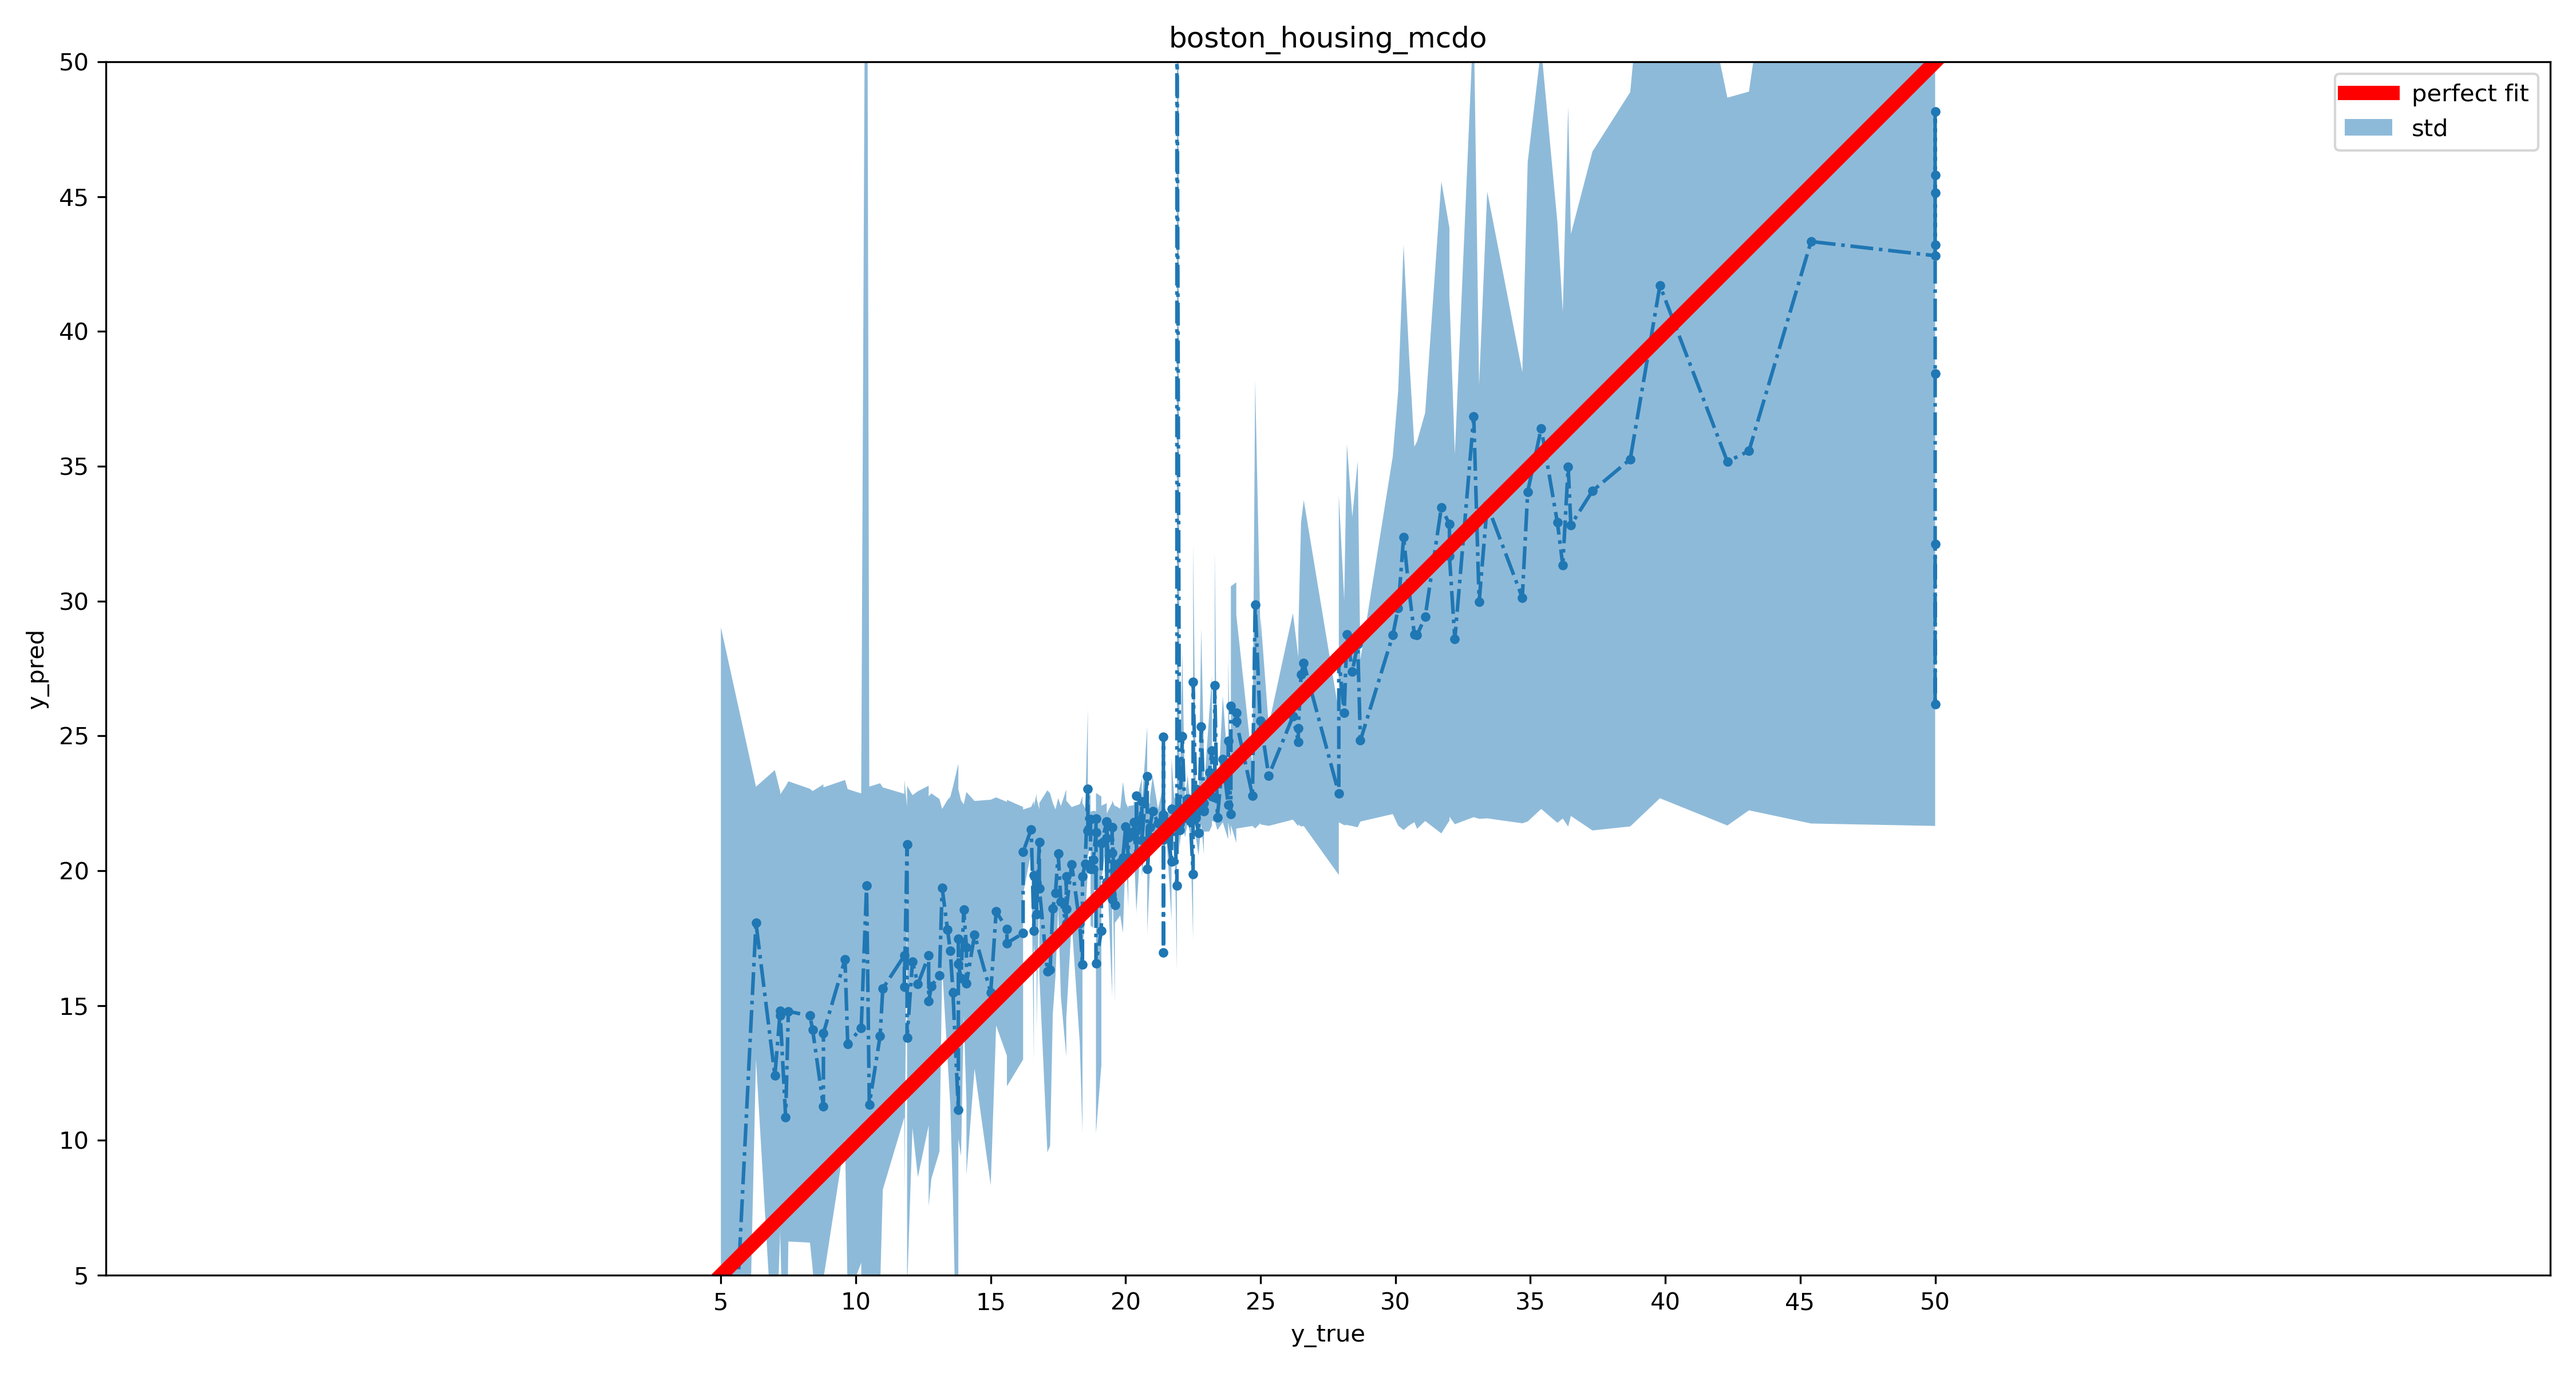
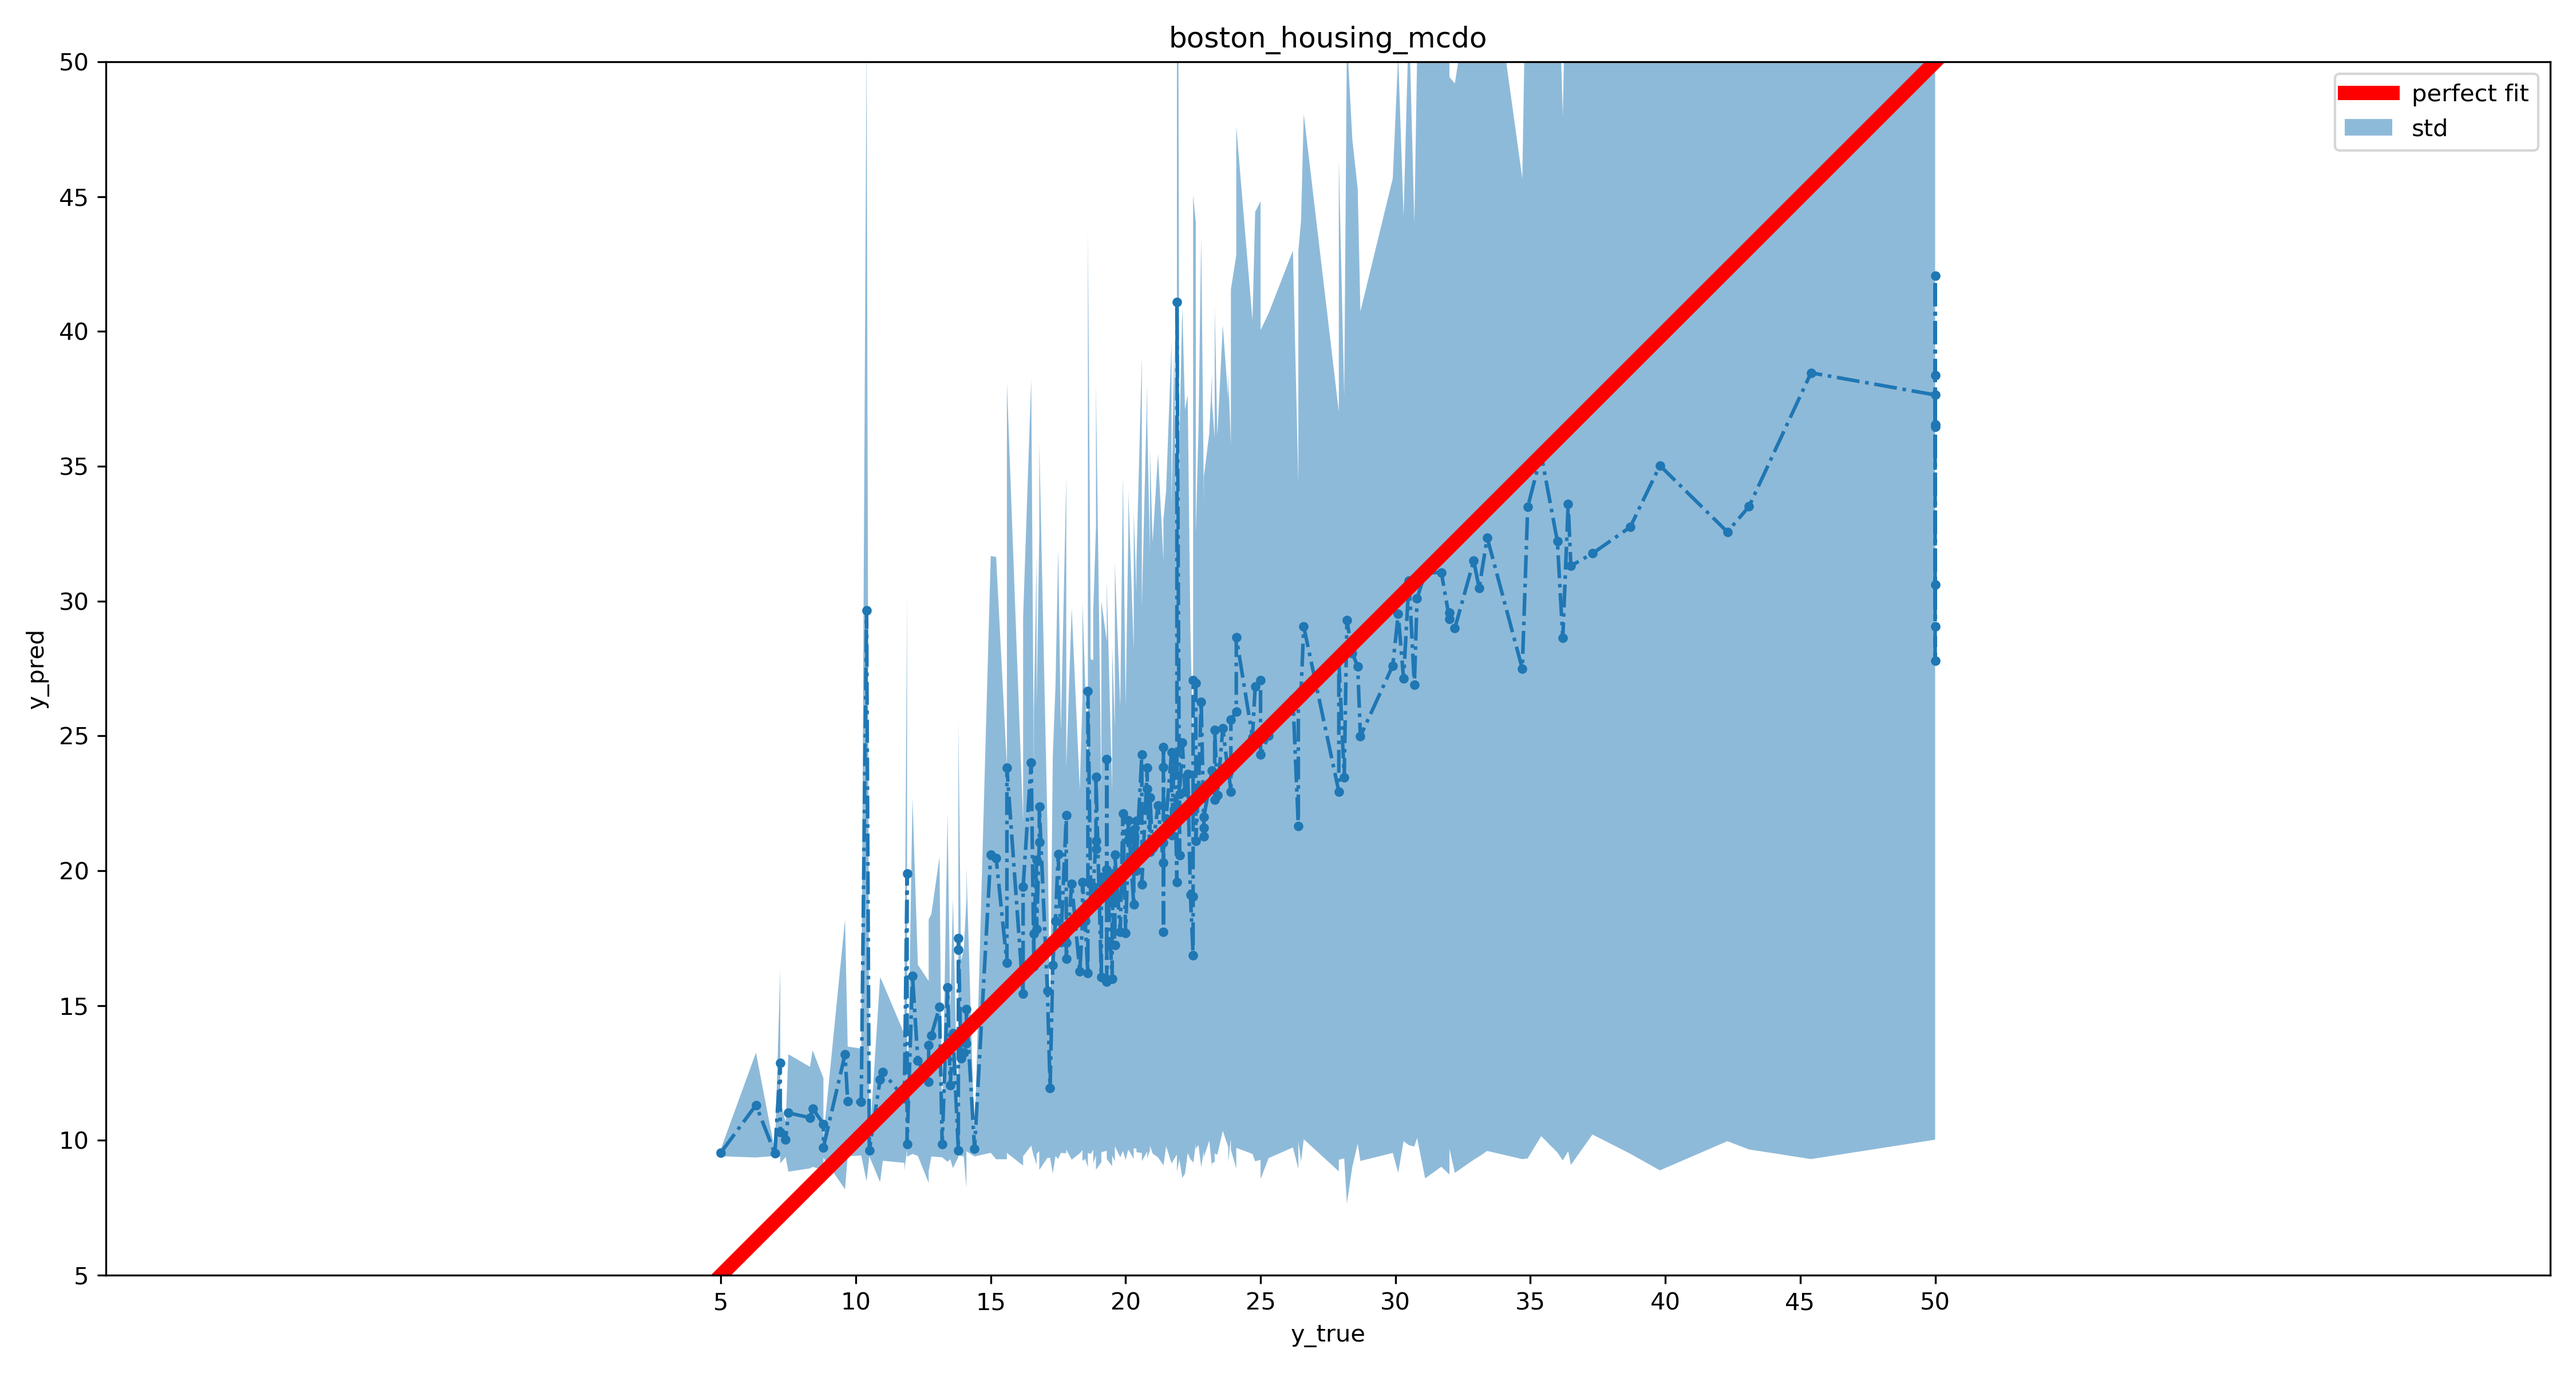
pics

Changed region(s): [[0.28, 0.0312, 0.7778, 0.9375]]

diff --git a/src/.ipynb_checkpoints/training-checkpoint.py b/src/.ipynb_checkpoints/training-checkpoint.py
@@ -48,14 +48,24 @@ def train_model_mfg(args, dataset, model):
     last_bias_mu = nn.Parameter(torch.randn((1, args.num_classes), device=device, dtype=torchType))
     last_bias_logvar = nn.Parameter(torch.randn((1, args.num_classes), device=device, dtype=torchType))
     
+    
+    ## Best parameters
+    best_last_weight_mu = nn.Parameter(torch.randn((args['last_features'], args.num_classes), device=device, dtype=torchType))
+    best_last_weight_logvar = nn.Parameter(torch.randn((args['last_features'], args.num_classes), device=device, dtype=torchType))
+    best_last_bias_mu = nn.Parameter(torch.randn((1, args.num_classes), device=device, dtype=torchType))
+    best_last_bias_logvar = nn.Parameter(torch.randn((1, args.num_classes), device=device, dtype=torchType))
+    best_model = type(model)(args).to(args.device) # get a new instance
+    
     params = list(model.parameters()) + [last_weight_mu, last_weight_logvar] + [last_bias_mu, last_bias_logvar]
-    optimizer = torch.optim.Adam(params)
+    optimizer = torch.optim.Adam(params, lr=1e-3)
     scheduler = torch.optim.lr_scheduler.MultiStepLR(optimizer, np.linspace(start=10, stop=num_epoches, num=50), gamma=0.9)
     
     
     std_normal = torch.distributions.Normal(loc=torch.tensor(0., device=device, dtype=torchType),
                                        scale=torch.tensor(1., device=device, dtype=torchType),)
-    
+    best_mse = float('inf')
+    best_KL = float('inf')
+    current_tol = 0
     for ep in tqdm(range(num_epoches)):
         for x_train, y_train_labels in dataset.next_train_batch():
             emb = model(x_train)
@@ -102,9 +112,24 @@ def train_model_mfg(args, dataset, model):
             else:
                 print(f"Mean validation MSE at epoch number {ep} is {np.array(score_total).mean()}")
             print(f'Current KL is {KL.cpu().detach().numpy()}')
+
+            if (np.array(score_total).mean() < best_mse):
+                best_mse = np.array(score_total).mean()
+                current_tol = 0
+                
+                best_model.load_state_dict(model.state_dict())
+                best_last_weight_mu = last_weight_mu.clone()
+                best_last_weight_logvar = last_weight_logvar.clone()
+                best_last_bias_mu = last_bias_mu.clone()
+                best_last_bias_logvar = last_bias_logvar.clone()
+                best_KL = KL.cpu().detach().numpy()
+            else:
+                current_tol += 1
+                if (print_info * current_tol > args['early_stopping_tol']):
+                    break
     
     
-    return model, [last_weight_mu, last_weight_logvar, last_bias_mu, last_bias_logvar], [np.array(score_total).mean(), KL.cpu().detach().numpy()]
+    return best_model, [best_last_weight_mu, best_last_weight_logvar, best_last_bias_mu, best_last_bias_logvar], [best_mse, best_KL]
     
     
 def train_model_mcdo(args, dataset, model):
@@ -119,11 +144,17 @@ def train_model_mcdo(args, dataset, model):
     last_bias_mu = nn.Parameter(torch.randn((1, args.num_classes), device=device, dtype=torchType))
     dropout = Dropout_layer()
     
+    ## Best parameters
+    best_last_weight_mu = nn.Parameter(torch.randn((args['last_features'], args.num_classes), device=device, dtype=torchType))
+    best_last_bias_mu = nn.Parameter(torch.randn((1, args.num_classes), device=device, dtype=torchType))
+    best_model = type(model)(args).to(args.device) # get a new instance
+    
     params = list(model.parameters()) + [last_weight_mu, last_bias_mu]
-    optimizer = torch.optim.Adam(params)
+    optimizer = torch.optim.Adam(params, lr=1e-3)
     scheduler = torch.optim.lr_scheduler.MultiStepLR(optimizer, np.linspace(start=10, stop=num_epoches, num=50), gamma=0.9)
     
-    
+    best_mse = float('inf')
+    current_tol = 0
     for ep in tqdm(range(num_epoches)):
         dropout.train()
         for x_train, y_train_labels in dataset.next_train_batch():
@@ -169,7 +200,17 @@ def train_model_mcdo(args, dataset, model):
                 print(f"Mean validation accuracy at epoch number {ep} is {np.array(score_total).mean()}")
             else:
                 print(f"Mean validation MSE at epoch number {ep} is {np.array(score_total).mean()}")
+            if (np.array(score_total).mean() < best_mse):
+                best_mse = np.array(score_total).mean()
+                current_tol = 0
+                best_model.load_state_dict(model.state_dict())
+                best_last_weight_mu = last_weight_mu.clone()
+                best_last_bias_mu = last_bias_mu.clone()
+            else:
+                current_tol += 1
+                if (print_info * current_tol > args['early_stopping_tol']):
+                    break
     
-    return model, [last_weight_mu, last_bias_mu], [np.array(score_total).mean()]
+    return best_model, [best_last_weight_mu, best_last_bias_mu], [best_mse]
     
     

diff --git a/src/training.py b/src/training.py
@@ -48,14 +48,24 @@ def train_model_mfg(args, dataset, model):
     last_bias_mu = nn.Parameter(torch.randn((1, args.num_classes), device=device, dtype=torchType))
     last_bias_logvar = nn.Parameter(torch.randn((1, args.num_classes), device=device, dtype=torchType))
     
+    
+    ## Best parameters
+    best_last_weight_mu = nn.Parameter(torch.randn((args['last_features'], args.num_classes), device=device, dtype=torchType))
+    best_last_weight_logvar = nn.Parameter(torch.randn((args['last_features'], args.num_classes), device=device, dtype=torchType))
+    best_last_bias_mu = nn.Parameter(torch.randn((1, args.num_classes), device=device, dtype=torchType))
+    best_last_bias_logvar = nn.Parameter(torch.randn((1, args.num_classes), device=device, dtype=torchType))
+    best_model = type(model)(args).to(args.device) # get a new instance
+    
     params = list(model.parameters()) + [last_weight_mu, last_weight_logvar] + [last_bias_mu, last_bias_logvar]
-    optimizer = torch.optim.Adam(params)
+    optimizer = torch.optim.Adam(params, lr=1e-3)
     scheduler = torch.optim.lr_scheduler.MultiStepLR(optimizer, np.linspace(start=10, stop=num_epoches, num=50), gamma=0.9)
     
     
     std_normal = torch.distributions.Normal(loc=torch.tensor(0., device=device, dtype=torchType),
                                        scale=torch.tensor(1., device=device, dtype=torchType),)
-    
+    best_mse = float('inf')
+    best_KL = float('inf')
+    current_tol = 0
     for ep in tqdm(range(num_epoches)):
         for x_train, y_train_labels in dataset.next_train_batch():
             emb = model(x_train)
@@ -102,9 +112,24 @@ def train_model_mfg(args, dataset, model):
             else:
                 print(f"Mean validation MSE at epoch number {ep} is {np.array(score_total).mean()}")
             print(f'Current KL is {KL.cpu().detach().numpy()}')
+
+            if (np.array(score_total).mean() < best_mse):
+                best_mse = np.array(score_total).mean()
+                current_tol = 0
+                
+                best_model.load_state_dict(model.state_dict())
+                best_last_weight_mu = last_weight_mu.clone()
+                best_last_weight_logvar = last_weight_logvar.clone()
+                best_last_bias_mu = last_bias_mu.clone()
+                best_last_bias_logvar = last_bias_logvar.clone()
+                best_KL = KL.cpu().detach().numpy()
+            else:
+                current_tol += 1
+                if (print_info * current_tol > args['early_stopping_tol']):
+                    break
     
     
-    return model, [last_weight_mu, last_weight_logvar, last_bias_mu, last_bias_logvar], [np.array(score_total).mean(), KL.cpu().detach().numpy()]
+    return best_model, [best_last_weight_mu, best_last_weight_logvar, best_last_bias_mu, best_last_bias_logvar], [best_mse, best_KL]
     
     
 def train_model_mcdo(args, dataset, model):
@@ -119,11 +144,17 @@ def train_model_mcdo(args, dataset, model):
     last_bias_mu = nn.Parameter(torch.randn((1, args.num_classes), device=device, dtype=torchType))
     dropout = Dropout_layer()
     
+    ## Best parameters
+    best_last_weight_mu = nn.Parameter(torch.randn((args['last_features'], args.num_classes), device=device, dtype=torchType))
+    best_last_bias_mu = nn.Parameter(torch.randn((1, args.num_classes), device=device, dtype=torchType))
+    best_model = type(model)(args).to(args.device) # get a new instance
+    
     params = list(model.parameters()) + [last_weight_mu, last_bias_mu]
-    optimizer = torch.optim.Adam(params)
+    optimizer = torch.optim.Adam(params, lr=1e-3)
     scheduler = torch.optim.lr_scheduler.MultiStepLR(optimizer, np.linspace(start=10, stop=num_epoches, num=50), gamma=0.9)
     
-    
+    best_mse = float('inf')
+    current_tol = 0
     for ep in tqdm(range(num_epoches)):
         dropout.train()
         for x_train, y_train_labels in dataset.next_train_batch():
@@ -169,7 +200,17 @@ def train_model_mcdo(args, dataset, model):
                 print(f"Mean validation accuracy at epoch number {ep} is {np.array(score_total).mean()}")
             else:
                 print(f"Mean validation MSE at epoch number {ep} is {np.array(score_total).mean()}")
+            if (np.array(score_total).mean() < best_mse):
+                best_mse = np.array(score_total).mean()
+                current_tol = 0
+                best_model.load_state_dict(model.state_dict())
+                best_last_weight_mu = last_weight_mu.clone()
+                best_last_bias_mu = last_bias_mu.clone()
+            else:
+                current_tol += 1
+                if (print_info * current_tol > args['early_stopping_tol']):
+                    break
     
-    return model, [last_weight_mu, last_bias_mu], [np.array(score_total).mean()]
+    return best_model, [best_last_weight_mu, best_last_bias_mu], [best_mse]
     
     

diff --git a/form_df.py b/form_df.py
@@ -45,9 +45,13 @@ df_dict = {
     'val_mse': [],
     'kl': [],
           }
-
-for dataname in ['boston_housing', 'concrete', 'energy_efficiency', 'kin8nm', 'naval_propulsion', 'ccpp', 'protein_structure', 'yacht_hydrodynamics', 'year_prediction_msd']:
+# , 'protein_structure', 'yacht_hydrodynamics', 'year_prediction_msd'
+for dataname in ['boston_housing', 'concrete', 'energy_efficiency', 'kin8nm', 'naval_propulsion', 'ccpp']:
     args['dataset_name'] = dataname
+    if dataname in ['boston_housing']:
+        args['early_stopping_tol'] = 1000
+    else:
+        args['early_stopping_tol'] = 400
     if args['dataset_name'].find('mnist') > -1:
         args['num_epoches'] = 201
         args['print_info'] = 50
@@ -60,13 +64,15 @@ for dataname in ['boston_housing', 'concrete', 'energy_efficiency', 'kin8nm', 'n
     else:
         args['n_IS'] = 1000
         args['num_epoches'] = 15001
-        args['print_info'] = 1000
+        args['print_info'] = 50
         if dataname in ['year_prediction_msd']:
             args['train_batch_size'] = 200
+        elif dataname in ['concrete']:
+            args['train_batch_size'] = 50
         else:
             args['train_batch_size'] = 100
         args['val_dataset'] = 200
-        args['val_batch_size'] = 20
+        args['val_batch_size'] = 50
         args['test_batch_size'] = 10
         
     dataset = Dataset(args)

diff --git a/src/.ipynb_checkpoints/data-checkpoint.py b/src/.ipynb_checkpoints/data-checkpoint.py
@@ -36,7 +36,7 @@ class Dataset():
             
         train = TensorDataset(torch.tensor(x_train.reshape(x_shape), dtype=torchType, device=device), torch.tensor(y_train, dtype=torchType, device=device))
         validation = TensorDataset(torch.tensor(x_val.reshape(x_shape), dtype=torchType, device=device), torch.tensor(y_val, dtype=torchType, device=device))
-        self.train_dataloader = DataLoader(train, batch_size=train_batch_size)
+        self.train_dataloader = DataLoader(train, batch_size=train_batch_size, shuffle=True)
         self.val_dataloader = DataLoader(validation, batch_size=val_batch_size)
         
         self.x_train = x_train

diff --git a/src/data.py b/src/data.py
@@ -36,7 +36,7 @@ class Dataset():
             
         train = TensorDataset(torch.tensor(x_train.reshape(x_shape), dtype=torchType, device=device), torch.tensor(y_train, dtype=torchType, device=device))
         validation = TensorDataset(torch.tensor(x_val.reshape(x_shape), dtype=torchType, device=device), torch.tensor(y_val, dtype=torchType, device=device))
-        self.train_dataloader = DataLoader(train, batch_size=train_batch_size)
+        self.train_dataloader = DataLoader(train, batch_size=train_batch_size, shuffle=True)
         self.val_dataloader = DataLoader(validation, batch_size=val_batch_size)
         
         self.x_train = x_train
